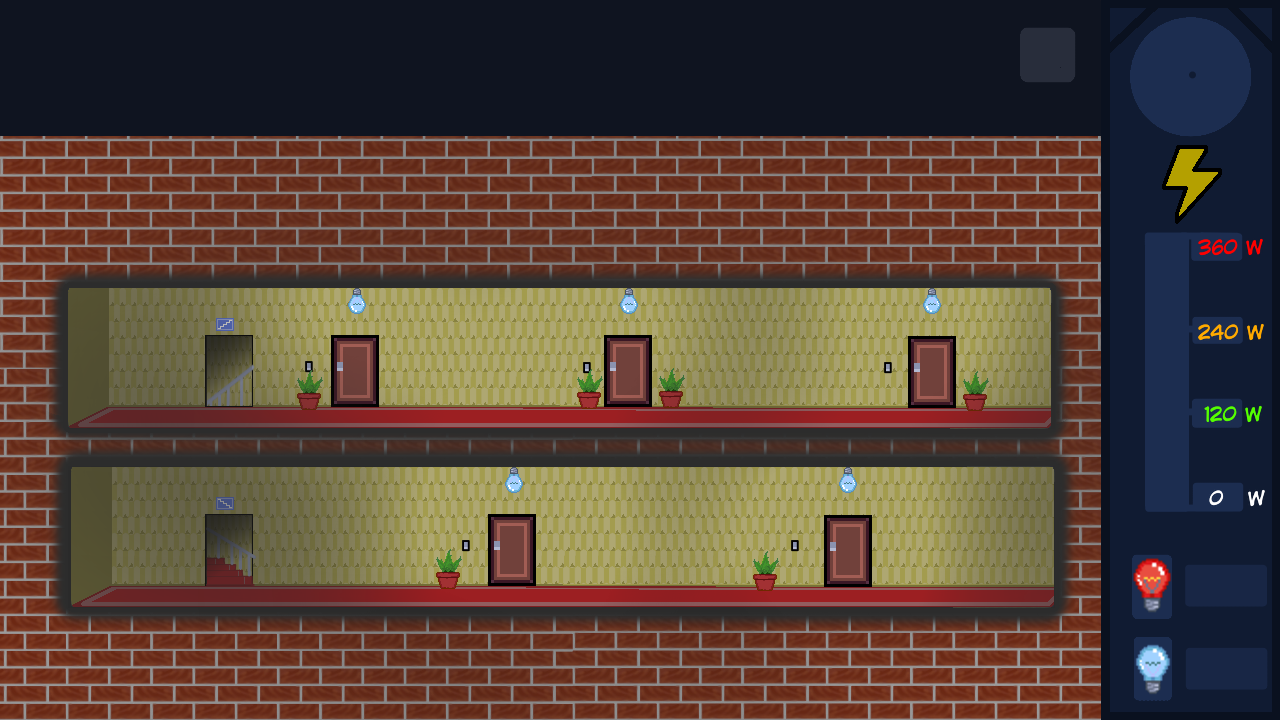
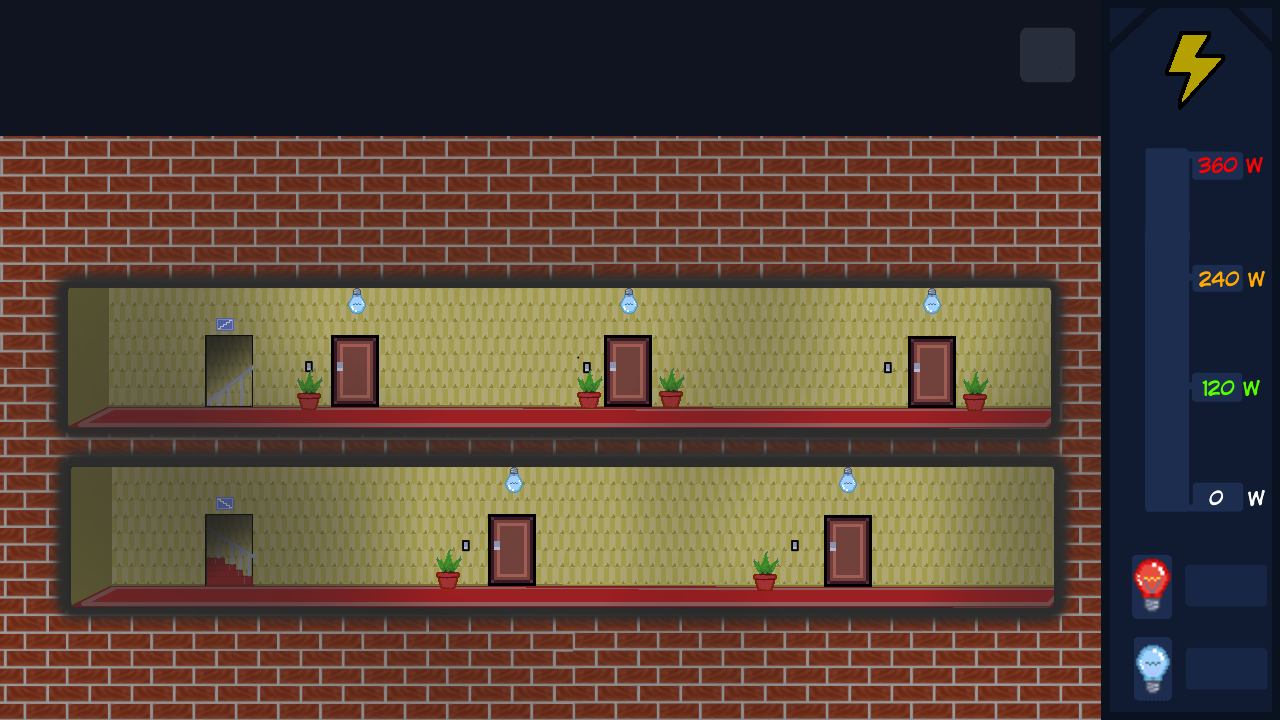
Se grego la barra de consumo de energia

Changed region(s): [[0.875, 0.0, 1.0, 0.4889], [0.9062, 0.5194, 1.0, 0.6111]]

diff --git a/lvl1.py b/lvl1.py
@@ -15,6 +15,8 @@ LimiteConsumo = 0
 focos = {}
 infoPersonaje = {}
 segundoAccion = 0
+bararMax = 275
+color = (0, 255, 0)
 
 def reinciar():
     
@@ -151,6 +153,7 @@ def pantalla_lvl1(SCREEN , configJuego, LvlsInfo, elementosFondo):
     global focos
     global infoPersonaje
     global segundoAccion
+    global color
     reinciar()
 
     if configJuego["indiceMusic"] != 2:
@@ -178,11 +181,17 @@ def pantalla_lvl1(SCREEN , configJuego, LvlsInfo, elementosFondo):
 
             for foco in focos["focosEstado"].items(): # recorremos los focos
                 if foco[1]["estado"] == 1 or foco[1]["estado"] == 2 or foco[1]["estado"] == 3: # verificamos si el foco esta encendido
-                    foco[1]["tiempoEncendido"] += 1 # si el foco esta encendido sumamos un segundo
+                    foco[1]["tiempoEncendido"] += 1 # si el foco esta encendido sumamos un segundo 
+                    if (consumoTotal > 120): # color amarillo
+                        color = (255, 255, 0)
+                    elif (consumoTotal > 240): # color rojo
+                        color = (255, 0, 0)
 
-                    if foco[1]["tiempoEncendido"] >= 60: # verificamos si el foco esta encendido por mas de 30 segundos
+                    if foco[1]["tiempoEncendido"] >= 70: # verificamos si el foco esta encendido por mas de 30 segundos
                         foco[1]["estado"] = 4
                         foco[1]["ultimoEstado"] = 4
+                        focos["focosFundidos"] += 1
+                        focos["focosEncendidos"] -= 1
 
                     elif foco[1]["tiempoEncendido"] >= 45: # verificamos si el foco esta encendido por mas de 45 segundos
                         foco[1]["estado"] = 3
@@ -190,7 +199,7 @@ def pantalla_lvl1(SCREEN , configJuego, LvlsInfo, elementosFondo):
 
                     elif foco[1]["tiempoEncendido"] >= 30: # verificamos si el foco esta encendido por mas de 60 segundos
                         foco[1]["estado"] = 2
-                        foco[1]["ultimoEstado"] = 2
+                        foco[1]["ultimoEstado"] = 2                    
 
         if segundoUltimoFoco + 5 <= tiempoPasado and focos["focosEncendidos"] != 5: # verificamos si pasaron 5 segundos desde que se fundio el ultimo foco
             segundoUltimoFoco = tiempoPasado # actualizamos el tiempo del ultimo foco encendido
@@ -222,6 +231,9 @@ def pantalla_lvl1(SCREEN , configJuego, LvlsInfo, elementosFondo):
     
         # colocamos el fondo de la pantalla
         SCREEN.blit(imgs["fondo"], (0,0))
+
+        # colocamos la barra de consumo
+        pygame.draw.rect(SCREEN, color, (1147, (509 - consumoTotal), 40, consumoTotal)) # dibujamos la barra de consumo
 
         # colocamos el tempo
         SCREEN.blit(tiempo, tiempoRect)
@@ -301,7 +313,6 @@ def pantalla_lvl1(SCREEN , configJuego, LvlsInfo, elementosFondo):
                     if accion == "salir":
                         return SCREEN , configJuego, LvlsInfo, elementosFondo
                     elif accion == "reiniciar":
-                        reinciar()
                         tiempoPasado = 0
                         segundoAnterior = 0
                         consumoTotal = 0
@@ -310,14 +321,15 @@ def pantalla_lvl1(SCREEN , configJuego, LvlsInfo, elementosFondo):
                         focos = {}
                         infoPersonaje = {}
                         segundoAccion = 0
+                        reinciar()
                         
         # recarga(SCREEN, infoPersonaje)
-        pygame.display.update()
-
-        # print(f"{idioma[configJuego['Idioma']]['Juego']['Tiempo']}{minutos}:{segundos} s")
+        pygame.display.flip()
+        # pygame.display.update()
 
 
         # ! Nota importante:
         # ? agregar sonidos a clicks, pasos, puertas, etc...
         # ? agregar una pantalla de game over
         # ? agregar una pantalla de ganaste
+        # ? agregar Powerups
